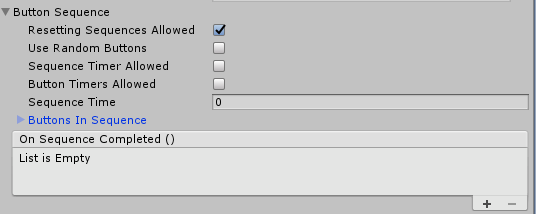
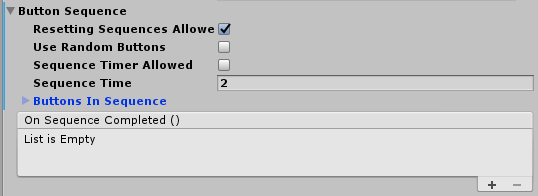
Replaced some out of date gifs.

Changed region(s): [[0.0, 0.0, 1.0, 1.0], [0.4179, 0.0, 0.9552, 0.0306]]

diff --git a/PartOne.md b/PartOne.md
@@ -51,11 +51,11 @@ To detect which buttons we are pressing on our controller we need to configure o
 
    ![AddedA](/TutorialAssets/AddedA.PNG)
 
-4. For the rest of the buttons you can do the same thing with the rest of the cancel copies. Notice how I used 'joystick button 0' for the A button. This however only works for windows. To see what joystick buttons you need for the rest of your buttons and for your operating system please follow this link: https://wiki.unity3d.com/index.php/Xbox360Controller
-
-5. If you are on windows your inputs should look like this:
+4. For the rest of the buttons you can do the same thing with the rest of the cancel copies. See the results here:
 
    ![AInput](/TutorialAssets/AInput.PNG) ![BInput](/TutorialAssets/BInput.PNG) ![XInput](/TutorialAssets/XInput.PNG) ![YInput](/TutorialAssets/YInput.PNG)
+
+5. Notice how I used 'joystick button 0' for the A button. This however only works for windows. To see what joystick buttons you need for the rest of your buttons and for your operating system please follow this link: https://wiki.unity3d.com/index.php/Xbox360Controller
 
 6. Now that we are all done with configuring the Input settings let's see how we can set up our first button sequence.
 
@@ -90,15 +90,15 @@ To detect which buttons we are pressing on our controller we need to configure o
    - Resetting Sequences Allowed: Allows the Button Sequence to be reset when a wrong button is pressed or a timer ended. 
    - Use Random Buttons: One of my personally most used features. With this you don't have to set each button of the sequence yourself. It generates some random buttons for you.
    - Sequence Timer Allowed: Enables a timer within which the sequence has to be completed by the user. You also want to set the 'Sequence Time' for this feature to work properly. If the timer ends the Sequence resets. Resetting Sequences Allowed has to be enabled for this.
-   - Button Timers Allowed: A quick setting that changes the 'Timer Allowed' checkbox for each button. You can still uncheck the buttons you don't want to have a timer. Resetting Sequences Allowed needs to be checked if you are using Button Timers for proper functionality.
+   
 
-   Then there is a list of the Buttons in our sequence called 'Buttons In Sequence'. We will come back to this later.
+Then there is a list of the Buttons in our sequence called 'Buttons In Sequence'. We will come back to this later.
 
-   At last you see and event called 'On Sequence Completed'. Here you can add your own functions which are called after the sequence is completed. We will also come back to this later.
+At last you see and event called 'On Sequence Completed'. Here you can add your own functions which are called after the sequence is completed. We will also come back to this later.
 
 4. Now let's expand 'Buttons In Sequence' and all of it's elements. You should see the following: ![ButtonsInSequence](/TutorialAssets/ButtonsInSequence.PNG)
 
-   The most important setting here is the Size for the amount of buttons you get in this sequence. If you use Random Buttons you wont have to do much here. However you can set each button manually from the dropdown and you can set a time for each button within which it has to be pressed. Please note that if you want these timers to work properly you have to enable 'Resetting Sequences Allowed' by hand.
+   The most important setting here is the Size for the amount of buttons you get in this sequence. If you use Random Buttons you wont have to do much here. However you can set each button manually from the dropdown and you can set a time for each button within which it has to be pressed. Resetting Sequences Allowed is checked automatically.
 
 5. After setting up our sequence we want to do something when the user completed the sequence. For this tutorial we are going to log a message to the console. Please select your main camera in the Hierarchy and add the component called 'LogCompletion' to it.
 
